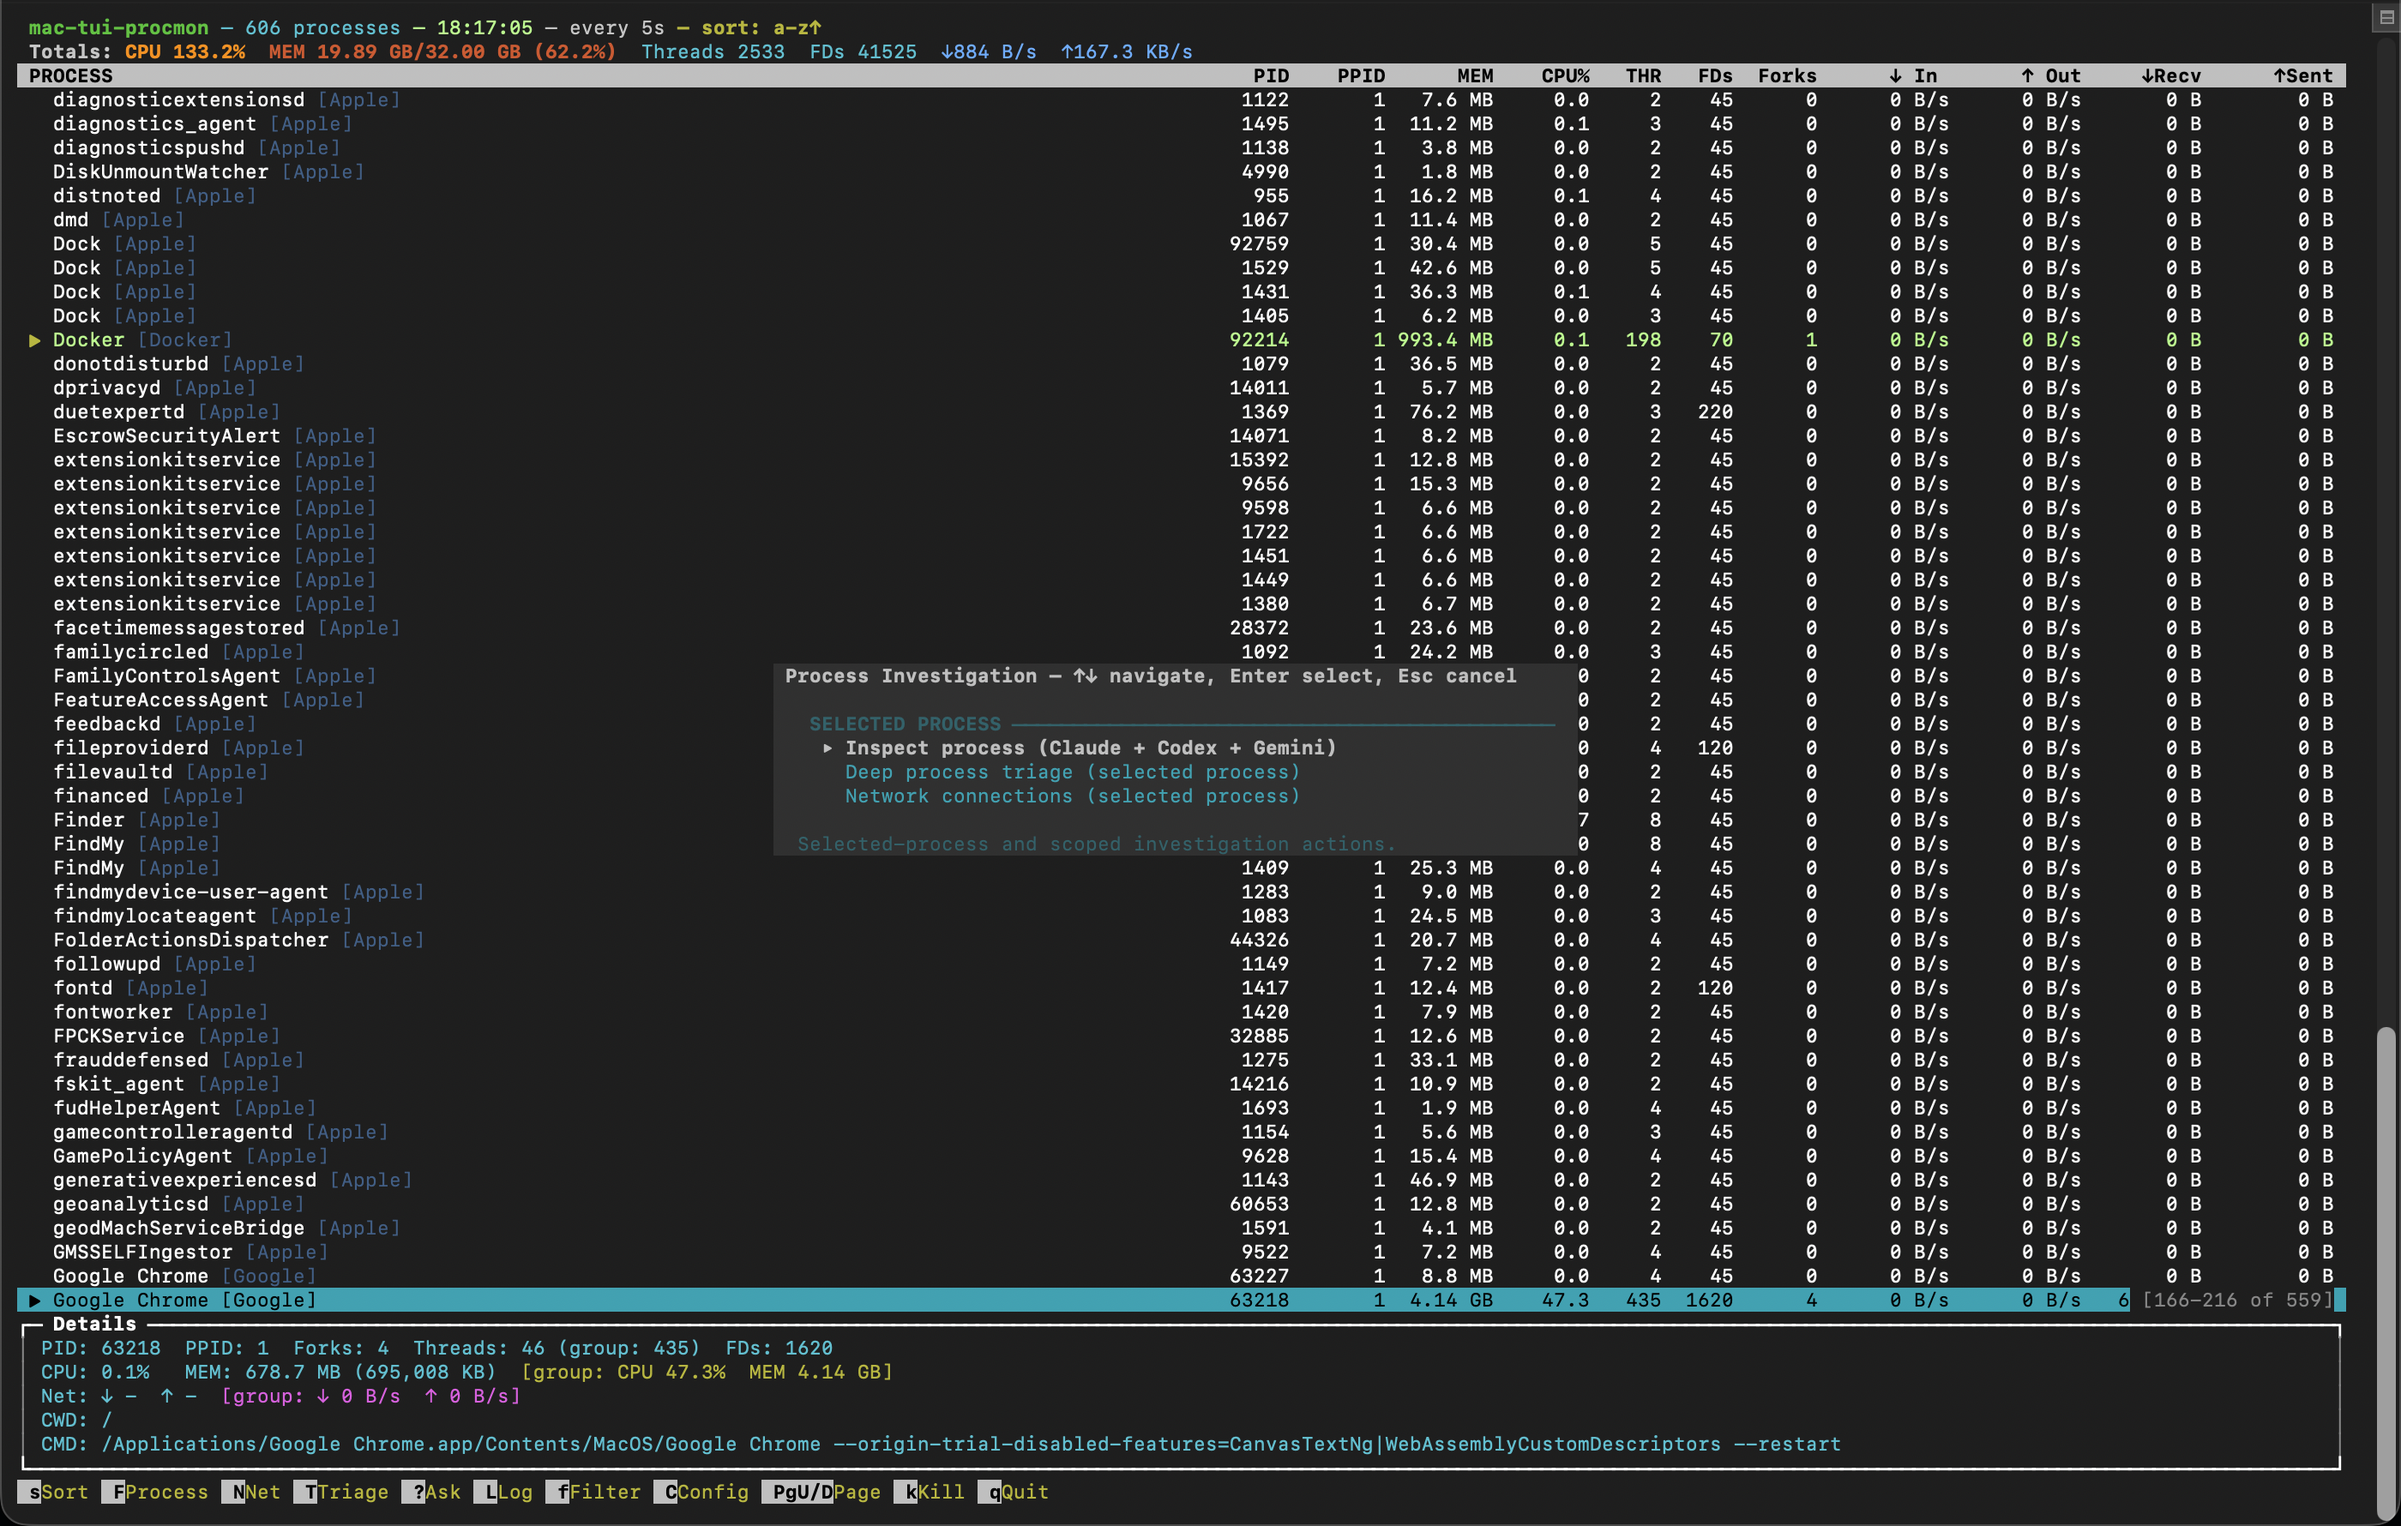
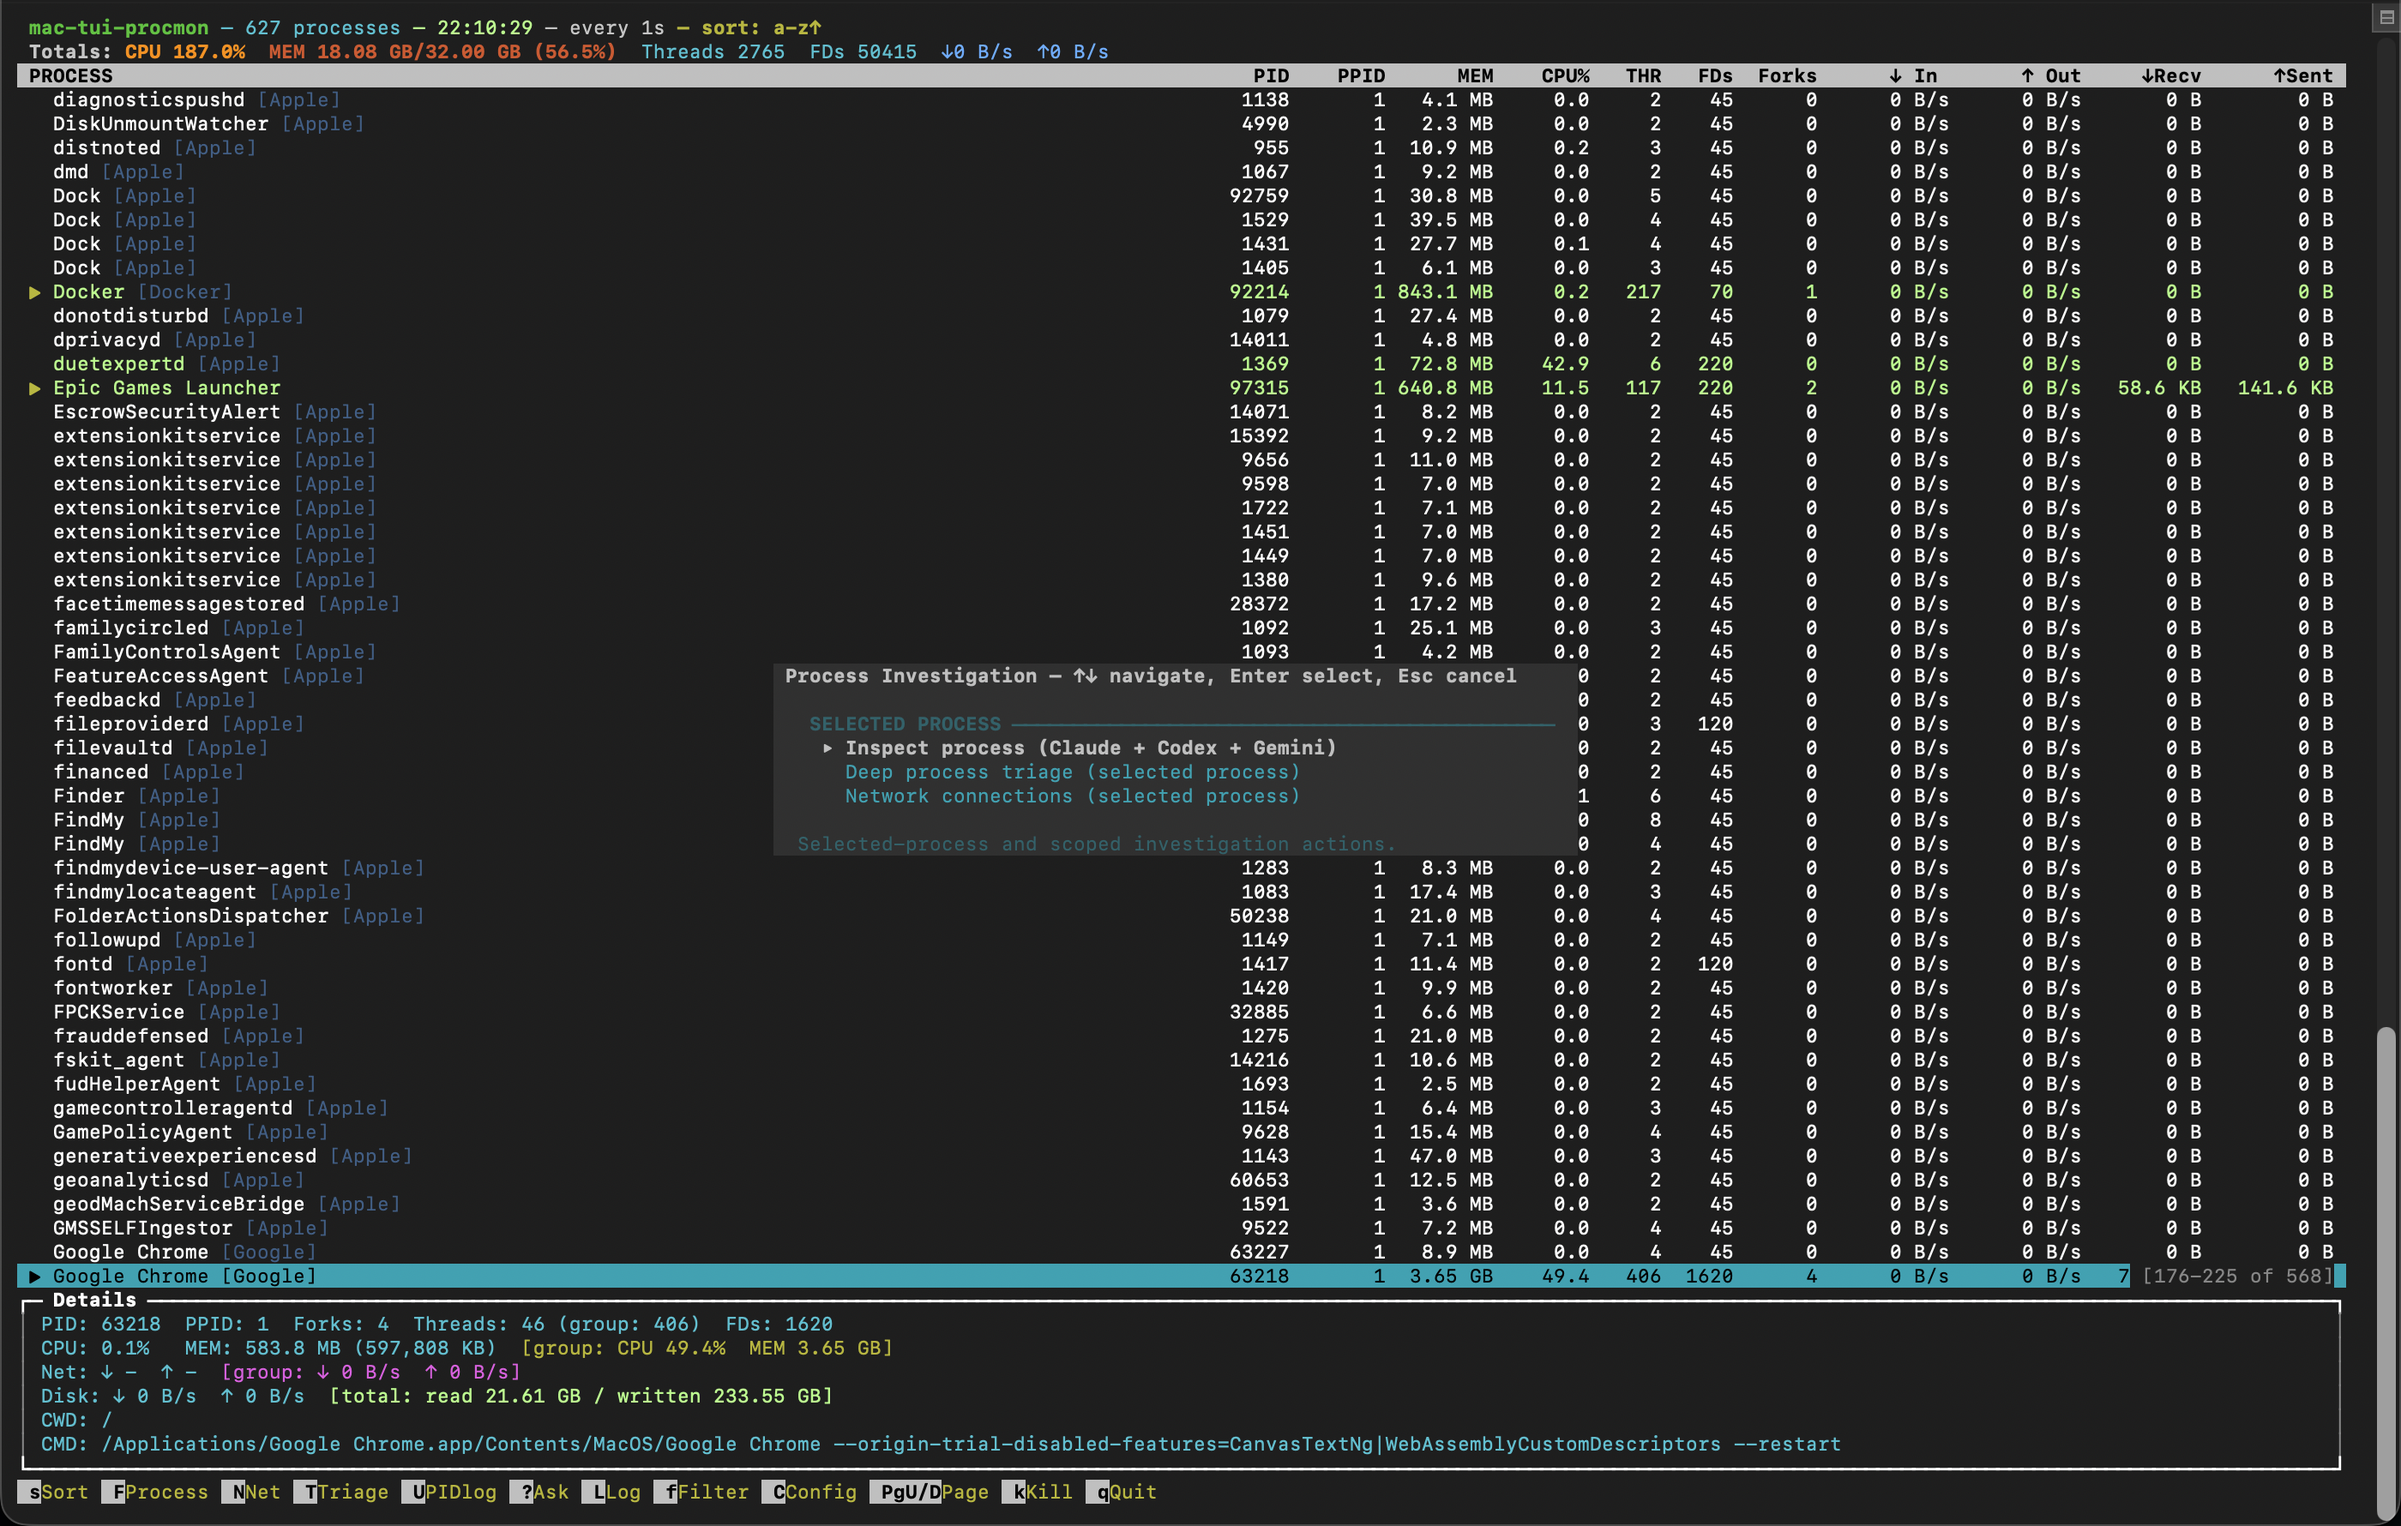
Refresh screenshots and document new feature surfaces
Re-ran capture-screenshots.sh against the current build:

- General view, sort/filter dialogs, and menus pick up the new
  bottom-bar entries 'U PIDlog' (per-PID unified log) and the
  restored 'L Log' (debug log overlay).
- Inspect view captures the now-populated codesign output (60s
  timeout fix), the new TREND sparkline section, and the IPC port
  count line.
- Triage view shows the AI summary + structured findings now that
  the codesign upstream no longer times out and short-circuits the
  whole triage pass.
- New unified-log.png demonstrates the U-key per-PID log mode.

Capture script tweaks:
- Pass '-i 1' so the per-PID metric ring buffer accumulates samples
  fast enough for sparklines to render with real shape during the
  capture window.
- 4s post-launch sleep → 12s, also for sparkline warmup.
- Add explicit U-key + 6s wait for unified-log capture.

Wiki/README:
- Screenshots.md inventory updated with unified-log entry and
  expanded inspect description (sparkline TREND + IPC ports).
- Screens.md gains a 'Per-process Unified Log (U)' section and the
  Inspect description is updated to match the new sections.
- Network connections wording corrected: 'k' kills the owning
  process (per the recent honesty fix), not just the connection.
- README embeds unified-log.png under the 'Live Per-Process Logs'
  section so the new surface is visually advertised.

Pre-publish leak scan: clean (no username, home path, email, IP,
or hostname in the staged text diff).

diff --git a/docs/wiki/Screens.md b/docs/wiki/Screens.md
@@ -40,7 +40,12 @@ Sectioned menu:
 
 Forensic report for the selected process. Sections include codesign,
 Gatekeeper, YARA disk, YARA memory (root-only), binary-trust
-profile.
+profile, **per-PID metric trend (sparklines)**, **disk I/O bytes**
+(`proc_pid_rusage` / `RUSAGE_INFO_V4`), and **Mach IPC port count**
+(`proc_pidinfo PROC_PIDLISTFILEPORTS`). The TREND section renders
+60 samples of CPU%, RSS, ↓Net, ↑Net as Unicode-block sparklines
+(▁▂▃▄▅▆▇█) so you can see what the process has been doing for the
+last minute, not just right now.
 
 ## Deep Process Triage (`T` or via Process Investigation)
 
@@ -50,7 +55,18 @@ a structured cursor over remediable findings.
 ## Network connections (`N` or via Process Investigation)
 
 List of TCP/UDP endpoints owned by the selected process: state,
-local, remote, foreign DNS. `k` kills the highlighted connection.
+local, remote, foreign DNS. `k` prompts before SIGKILL'ing the
+**owning process** (true per-flow kill on macOS would need
+`pfctl`/`tcpkill` plumbing — currently out of scope).
+
+## Per-process Unified Log (`U`)
+
+Live tail of `log stream --process <pid> --level info --style
+compact` for the selected PID. Surfaces every subsystem / category
+message the process emits to `os_log` — far richer than the bottom
+status string. The Ask overlay (`?`) reads the last 50 lines as
+system context, so the assistant gets specific about what the
+process is *doing*, not just what it *is*.
 
 ## Endpoint Security stream (`E` → Security timeline)
 

diff --git a/docs/wiki/Screenshots.md b/docs/wiki/Screenshots.md
@@ -14,8 +14,9 @@ chat-overlay variant of the same surface.
 | `sort-dialog.png`             | Sort dialog (`s` key)                              |
 | `forensic-menu.png`           | Process Investigation menu                         |
 | `telemetry-menu.png`          | Live Telemetry menu (`E`)                          |
-| `inspect-view.png`            | Inspect mode (codesign + YARA + trust profile)     |
+| `inspect-view.png`            | Inspect mode (codesign + YARA + trust profile + sparkline TREND + IPC ports) |
 | `triage-view.png`             | Deep process triage (`T`)                          |
+| `unified-log.png`             | Per-process Unified Log stream (`U`) — `log stream --process <pid>` |
 | `alert-config.png`            | Alert thresholds dialog (`Shift+C`)                |
 | `log-overlay.png`             | Debug log overlay (`L`)                            |
 | `ask-claude.png`              | AI chat overlay grounded in current screen         |

diff --git a/README.md b/README.md
@@ -289,6 +289,8 @@ lines so you can correlate exactly what the process is doing
 entries are visible without `sudo`; system-private payloads may
 still render as `<private>` without root — that's macOS, not us.
 
+![Per-process Unified Log](screenshots/unified-log.png)
+
 Detail-focus shortcuts: `↑`/`↓` and `PgUp`/`PgDn` scroll the
 buffer, `c` clears, `Esc` kills the subprocess and closes.
 
